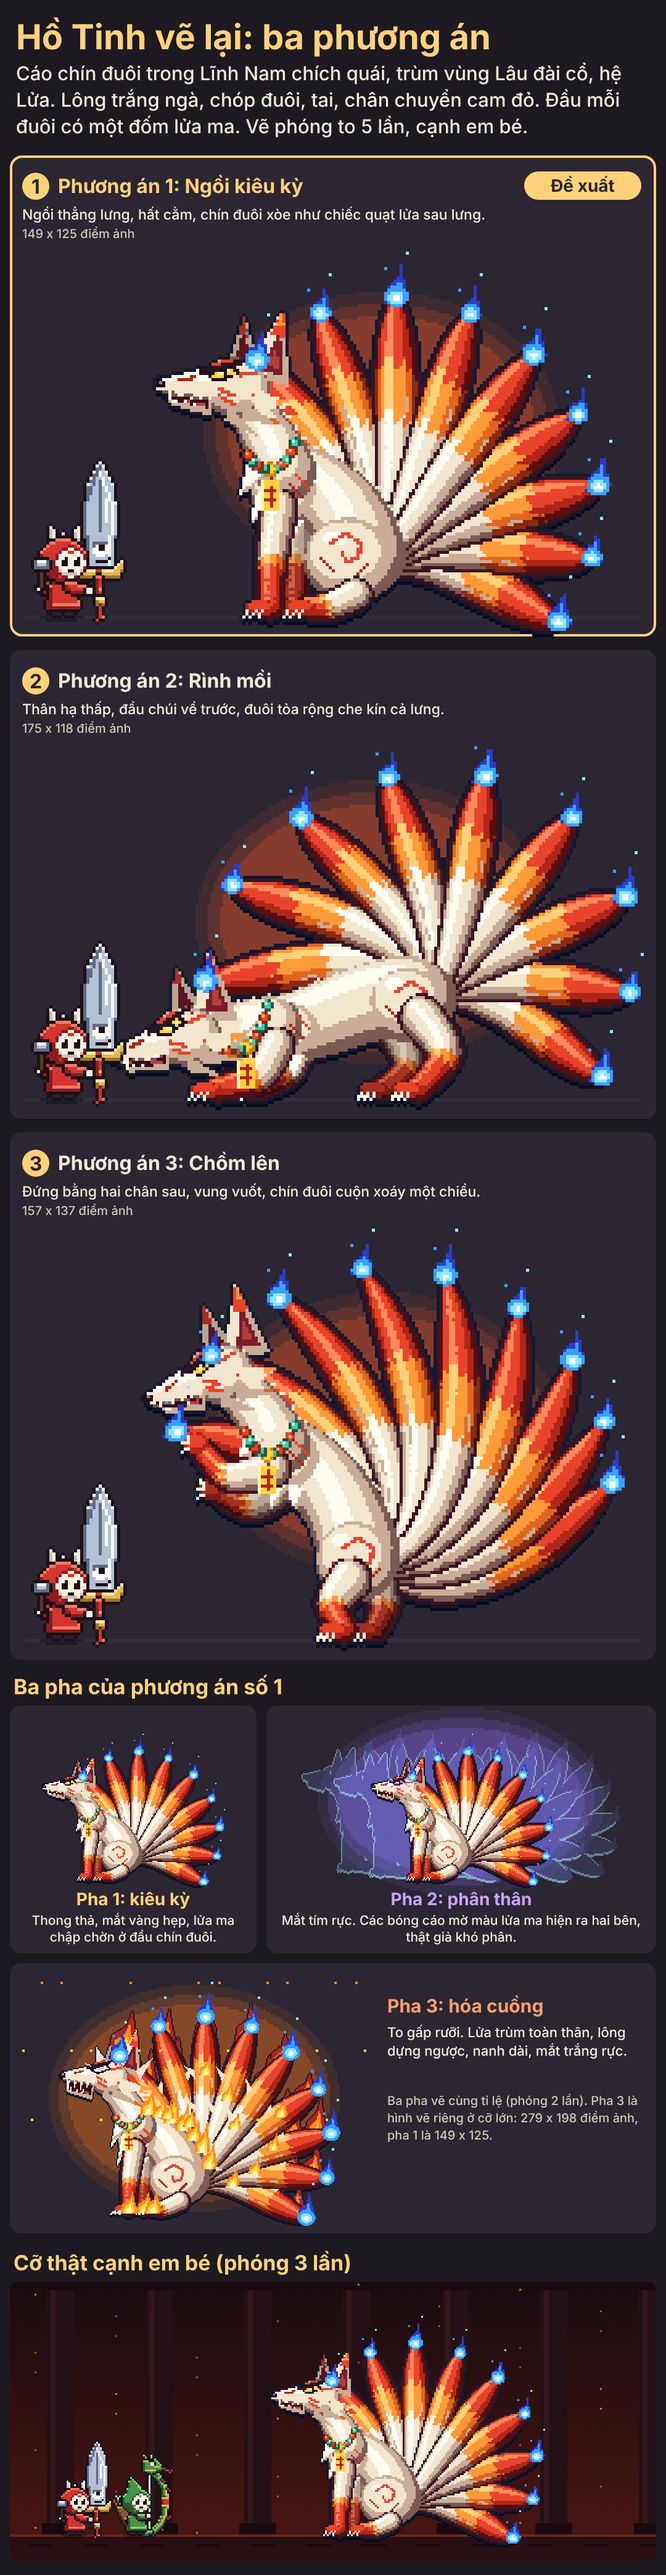
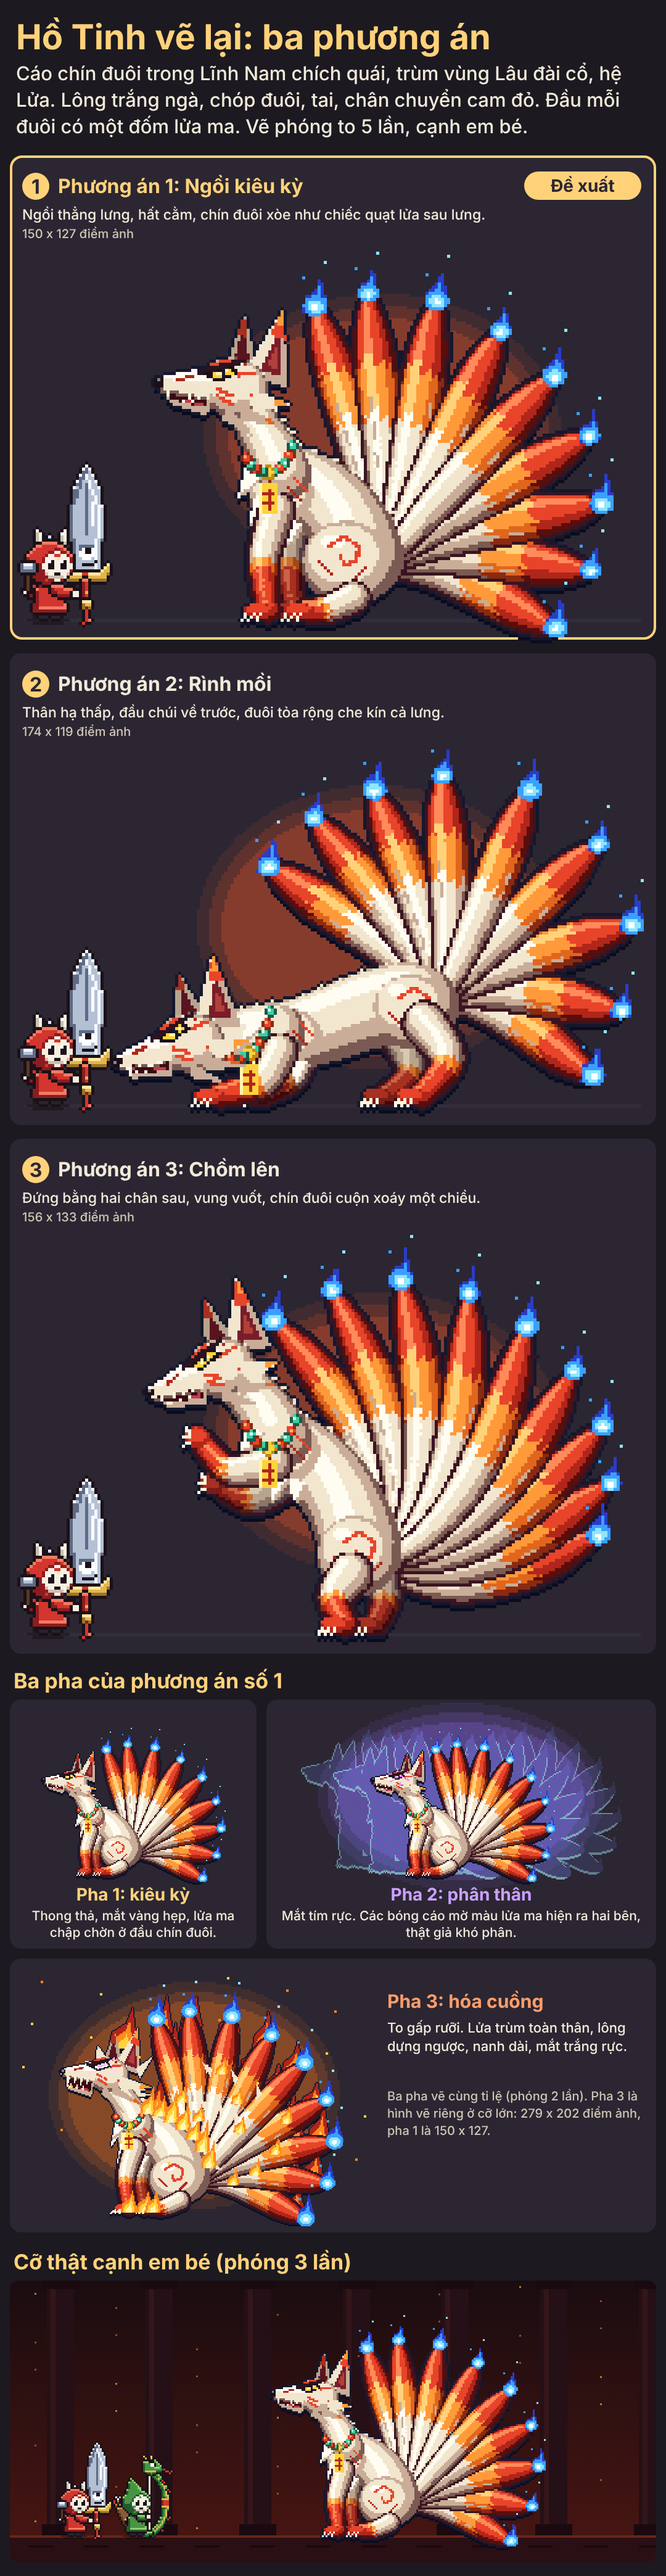
Hồ Tinh vẽ lại: ba phương án và ba pha
Claude-Session: https://claude.ai/code/session_01W1uW9UfB6Mmu2gqHsoj5FL

diff --git a/docs/phac-thao/quai-ban-chot/nguon/hotinh.js b/docs/phac-thao/quai-ban-chot/nguon/hotinh.js
@@ -49,15 +49,15 @@ function HT_dau(g, p) { const I = HT_IV, m = p === 3 ? 5.5 : p === 2 ? 3.6 : 2.6
   HT_P(g, [[-11, -2.4], [-2, -7.6], [.6, -4.4], [-6, -.6]], '#1c0f18'); HT_P(g, [[-9, -2.5], [-2.4, -6.2], [-.8, -4.5], [-6, -1.8]], ec); HT_P(g, [[-7, -3.2], [-3, -5.4], [-2.4, -4.6], [-6, -2.6]], e2);
   if (p !== 3) HT_L(g, -5, -5, -4.5, -2.6, '#14182e', 1); HT_L(g, -12.5, -3.4, 1.5, -9.6, '#2a1420', 1.7); }
 const HT_DANG = {
-  1: { w: 196, h: 140, gy: 131, tb: [100, 116], A: [2, 15, 28, 41, 54, 67, 80, 93, 106], L: [58, 68, 76, 82, 86, 88, 88, 84, 76], cu: 0, tw: 6.6,
-    torso: [[95, 111], [92, 96], [80, 88], [70, 86]], tr: [14, 11], hip: [91, 113, 15, 14], chest: [70, 91, 11, 12], neck: [[70, 84], [67, 76], [62, 70], [59, 64]], nr: [10, 7.4], head: [54, 57, .16],
-    legs: [{ far: 1, pts: [[75, 96], [74, 112], [73, 128]], r: [5, 3.4], paw: [70.5, 128.4] }, { pts: [[93, 124], [84, 128.4], [78, 128.2]], r: [4.6, 3.4], paw: [75, 128.4] }, { pts: [[68, 96], [65.5, 112], [65, 128]], r: [5.4, 3.6], paw: [62, 128.4] }],
+  1: { w: 196, h: 140, gy: 131, tb: [100, 116], A: [1, 13, 25, 37, 49, 61, 73, 85, 96], L: [58, 68, 76, 82, 86, 88, 90, 90, 88], cu: 0, tw: 6.6,
+    torso: [[95, 111], [92, 96], [80, 88], [70, 86]], tr: [14, 11], hip: [91, 113, 15, 14], chest: [70, 91, 11, 12], neck: [[70, 84], [67, 76], [62, 70], [59, 64]], nr: [9, 6.6], head: [54, 56, .18],
+    legs: [{ far: 1, pts: [[75, 96], [71, 112], [73.5, 128]], r: [5, 3.4], paw: [70.5, 128.4] }, { pts: [[93, 124], [84, 128.4], [78, 128.2]], r: [4.6, 3.4], paw: [75, 128.4] }, { pts: [[68, 96], [62.5, 112], [65, 128]], r: [5.4, 3.6], paw: [62, 128.4] }],
     hat: [[73, 75], [70, 86], [62, 86], [58, 79]], mark: [89, 110] },
-  2: { w: 196, h: 124, gy: 116, tb: [124, 84], A: [-4, 15, 34, 53, 72, 91, 110, 129, 148], L: [56, 62, 70, 74, 74, 72, 70, 70, 66], cu: 0, tw: 6.4,
+  2: { w: 196, h: 124, gy: 116, tb: [124, 84], A: [-4, 13, 30, 47, 64, 81, 98, 115, 132], L: [52, 58, 68, 74, 76, 74, 72, 72, 70], cu: 0, tw: 6.4,
     torso: [[118, 84], [104, 82], [90, 92], [76, 94]], tr: [13, 11], hip: [116, 86, 13, 12], chest: [76, 95, 12, 10], neck: [[72, 93], [64, 93], [56, 95], [50, 96]], nr: [9.4, 7.4], head: [44, 96, -.14],
     legs: [{ far: 1, pts: [[80, 99], [78, 108], [66, 113]], r: [5, 3.4], paw: [62, 113.4] }, { far: 1, pts: [[110, 92], [118, 106], [108, 113]], r: [5.6, 3.4], paw: [104.5, 113.4] }, { pts: [[120, 90], [130, 102], [119, 113]], r: [6.6, 3.6], paw: [115.5, 113.4] }, { pts: [[73, 99], [68, 110], [54, 113]], r: [5.4, 3.6], paw: [50, 113.4] }],
     hat: [[70, 86], [68, 99], [60, 103], [57, 101]], mark: [116, 84] },
-  3: { w: 200, h: 144, gy: 135, tb: [114, 112], A: [-14, 2, 18, 34, 50, 66, 82, 98, 112], L: [66, 74, 80, 84, 86, 86, 82, 76, 66], cu: 1, tw: 6.4,
+  3: { w: 200, h: 144, gy: 135, tb: [114, 112], A: [-14, 0, 14, 28, 42, 56, 70, 84, 97], L: [66, 74, 80, 84, 86, 88, 88, 86, 82], cu: 1, tw: 6.4,
     torso: [[107, 108], [104, 92], [94, 80], [84, 75]], tr: [13.5, 11.5], hip: [106, 110, 13, 13], chest: [83, 77, 12, 12], neck: [[81, 72], [76, 62], [71, 57], [67, 53]], nr: [10, 7.4], head: [62, 49, -.22],
     legs: [{ far: 1, pts: [[86, 84], [72, 94], [62, 88]], r: [5, 3.2], paw: [59, 86.5], up: 1 }, { far: 1, pts: [[112, 114], [116, 124], [112, 132]], r: [5.6, 3.4], paw: [108.5, 132.4] }, { pts: [[104, 116], [97, 124], [102, 132]], r: [6.4, 3.6], paw: [98.5, 132.4] }, { pts: [[79, 80], [64, 84], [56, 74]], r: [5.4, 3.4], paw: [54, 71.5], up: 1 }],
     hat: [[86, 66], [82, 78], [74, 78], [70, 68]], mark: [106, 108] } };
@@ -65,7 +65,7 @@ function HT_than(v, p) { const P = HT_DANG[v] || HT_DANG[1], k = p === 3 ? 1.5 :
   const tips = [], sp = HT_bz(P.torso[0], P.torso[1], P.torso[2], P.torso[3], 26), nk = HT_bz(P.neck[0], P.neck[1], P.neck[2], P.neck[3], 16);
   // đường các đuôi
   const tails = P.A.map((ad, i) => { const a = ad * Math.PI / 180, L = P.L[i] * (p === 3 ? 1.04 : 1), d = [Math.cos(a), -Math.sin(a)], n = [-Math.sin(a), -Math.cos(a)], B = P.tb;
-    const c = P.cu ? 1 : (ad - 54) / 52, o1 = P.cu ? -12 : -c * 7, o2 = P.cu ? 20 : c * 15, o3 = P.cu ? 10 : c * 4;
+    const c = P.cu ? 1 : Math.max(-1, Math.min(.55, (ad - 54) / 52)), o1 = P.cu ? -12 : -c * 7, o2 = P.cu ? 14 : c * 15, o3 = P.cu ? 3 : c * 4;
     return HT_bz(B, [B[0] + d[0] * L * .36 + n[0] * o1, B[1] + d[1] * L * .36 + n[1] * o1], [B[0] + d[0] * L * .8 + n[0] * o2, B[1] + d[1] * L * .8 + n[1] * o2], [B[0] + d[0] * L + n[0] * (o2 + o3) * (P.cu ? 1.5 : 1), B[1] + d[1] * L + n[1] * (o2 + o3) * (P.cu ? 1.5 : 1)], 64); });
   const up = (pts, i) => { const a = pts[Math.max(0, i - 1)], b = pts[Math.min(pts.length - 1, i + 1)]; let tx = b[0] - a[0], ty = b[1] - a[1]; const l = Math.hypot(tx, ty) || 1; tx /= l; ty /= l; let nx = ty, ny = -tx; if (ny > 0 || (ny === 0 && nx < 0)) { nx = -nx; ny = -ny; } return [tx, ty, nx, ny]; };
   const trf = t => P.tr[0] + (P.tr[1] - P.tr[0]) * t, nrf = t => P.nr[0] + (P.nr[1] - P.nr[0]) * t;
@@ -110,7 +110,7 @@ function HT_than(v, p) { const P = HT_DANG[v] || HT_DANG[1], k = p === 3 ? 1.5 :
   if (p === 3) { for (let i = 1; i < sp.length; i += 4) { const u = up(sp, i), r = trf(i / 26); HT_lua(g, sp[i][0] + u[2] * (r - 2) + 2, sp[i][1] + u[3] * (r - 2), 12 + i % 3 * 3, 4.4, [HT_LUA[1], HT_LUA[2], HT_LUA[3]], 3); }
     for (const lg of P.legs) if (!lg.up) HT_lua(g, lg.paw[0] + 3, lg.paw[1] + 2, 12, 4.6, [HT_LUA[1], HT_LUA[2], HT_LUA[3]], 2);
     tails.forEach((tl, i) => { const j = 20 + (i * 7) % 24; HT_lua(g, tl[j][0], tl[j][1], 10, 3.6, [HT_LUA[1], HT_LUA[2], HT_LUA[3]], 2); });
-    for (let i = 0; i < 26; i++) { const x = (i * 53 + 17) % P.w, y = (i * 37 + 5) % (P.gy - 20); HT_D(g, x, y, i % 3 ? '#ffd23c' : '#ff8a1e'); } }
+    for (let i = 0; i < 26; i++) { const x = (i * 53 + 17) % P.w, y = (i * 41 + 5) % (P.gy - 24); HT_D(g, x, y, i % 3 ? '#ffd23c' : '#ff8a1e'); } }
   tips.forEach((q, i) => { const s = (p === 3 ? 1.25 : 1) * (i % 2 ? 1 : 1.15); HT_lua(g, q[0], q[1] + 2, 11 * s, 3.6 * s, HT_MA, 1.5); HT_E(g, q[0], q[1], 3.4 * s, 3 * s, HT_MA[1]); HT_E(g, q[0], q[1] + .2, 2.2 * s, 1.9 * s, HT_MA[2]); HT_E(g, q[0], q[1] + .4, 1 * s, .9 * s, HT_MA[3]); HT_D(g, q[0] + 3, q[1] - 13 * s, HT_MA[2]); HT_D(g, q[0] - 4, q[1] - 8 * s, HT_MA[1]); });
   T.k = 1; g.foot = Math.round(P.gy * k); return g; }
 // pha 2: phân thân mờ màu lửa ma ở hai bên
@@ -132,7 +132,7 @@ TO['ho-tinh-ve-lai'] = function () {
   for (let v = 1; v <= 3; v++) { const g = QH.hoTinh(v, 1), b = bbox(g), fh = (g.foot - b.y0) * 5, H = fh + 190, d = D[v - 1]; panel(c, 16, y, 1048, H);
     if (v === N) { c.strokeStyle = GOLDT; c.lineWidth = 4; c.beginPath(); c.roundRect(18, y + 2, 1044, H - 4, 18); c.stroke(); rr(c, 850, y + 26, 190, 46, 23, GOLDT); text(c, 'Đề xuất', 945, y + 59, 28, '#2b2632', true, 'center'); }
     badge(c, v, 58, y + 50); text(c, 'Phương án ' + v + ': ' + d[0], 94, y + 61, 32, v === N ? GOLDT : CREAM, true); para(c, d[1], 36, y + 104, 1000, 23, CREAM, 30); text(c, b.w + ' x ' + b.h + ' điểm ảnh', 36, y + 134, 20, SOFT, false);
-    const fy = y + H - 34, x = Math.min(620, 1044 - b.w * 2.5); aura(c, x, fy - fh / 2, 5, 58, 46, '255,90,40'); floor(c, 40, fy, 1000); draw(c, g, x, fy, 5); put(c, { key: 'smith', weapon: W('sword') }, 100, fy, 5); y += H + 22; }
+    const fy = y + H - 34, x = Math.min(620, 1044 - b.w * 2.5); aura(c, x, fy - fh / 2, 5, 58, 46, '255,90,40'); floor(c, 40, fy, 1000); draw(c, g, x, fy, 5); put(c, { key: 'smith', weapon: W('sword') }, 78, fy, 5); y += H + 22; }
   text(c, 'Ba pha của phương án số ' + N, 22, y + 34, 34, GOLDT, true); y += 52;
   const PH = [['Pha 1: kiêu kỳ', 'Thong thả, mắt vàng hẹp, lửa ma chập chờn ở đầu chín đuôi.', '#ffd27a'], ['Pha 2: phân thân', 'Mắt tím rực. Các bóng cáo mờ màu lửa ma hiện ra hai bên, thật giả khó phân.', '#c9a0ff'], ['Pha 3: hóa cuồng', 'To gấp rưỡi. Lửa trùm toàn thân, lông dựng ngược, nanh dài, mắt trắng rực.', '#ff9d6a']];
   const G = [1, 2, 3].map(p => QH.hoTinh(N, p)), B = G.map(bbox), h12 = Math.max(G[0].foot - B[0].y0, G[1].foot - B[1].y0) * 2, HA = h12 + 150;
